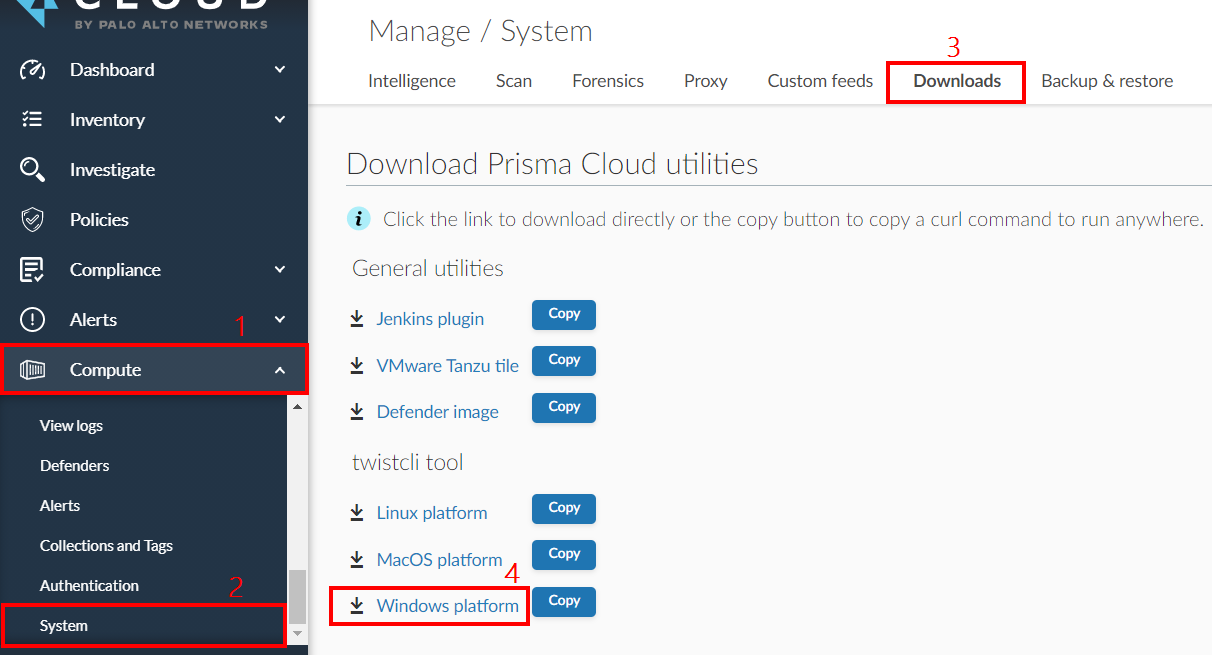
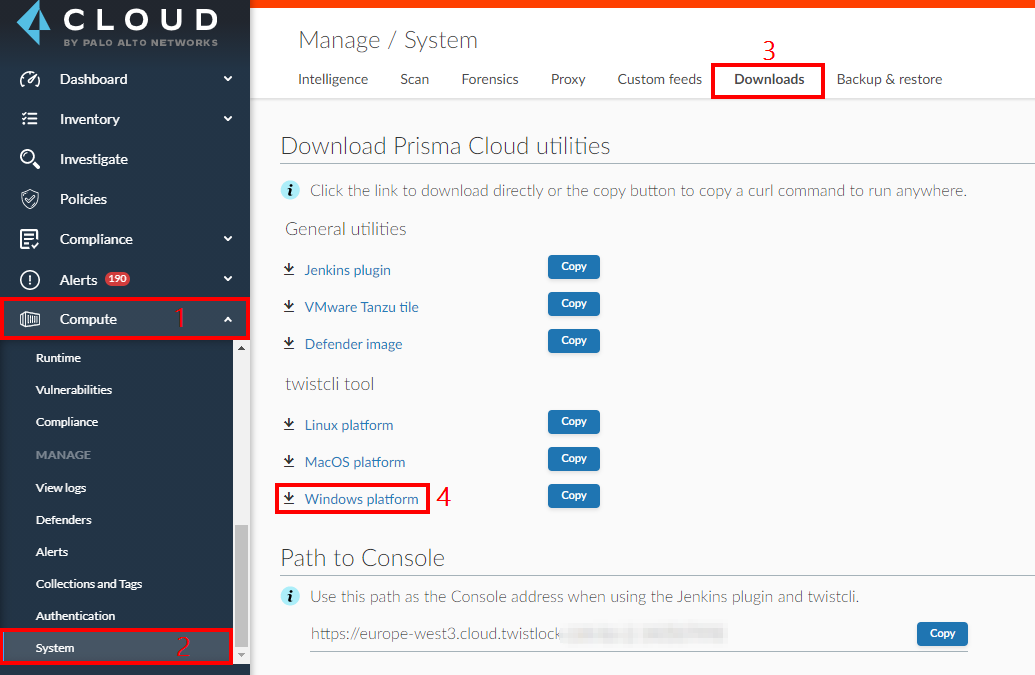
Added windows container build file

diff --git a/workshops/azure-cloud-protection/modules/7-protect-windows-hosts-and-containers.md b/workshops/azure-cloud-protection/modules/7-protect-windows-hosts-and-containers.md
@@ -1,12 +1,13 @@
 ---
-Title: 6 - Protect Windows Hosts and Containers in Azure
+Title: 7 - Protect Windows Hosts and Containers in Azure
 Description: Prisma Cloud Compute provides a comprehensive set of cecurity capabilities to protect containerized workloads everywhere including Windows hosts and containers
 Author: David Okeyode
 ---
-# Module 6: Protect Windows Hosts and Containers in Azure
+# Module 7: Protect Windows Hosts and Containers in Azure
 
 In the previous lessons, you implemented some of the Cloud Security Posture Management capabilities of Prisma Cloud. From this lesson, we will begin to implement workload protection capabilities particularly in relation to containerized workloads in Azure. Here are the tasks that we will be completing in this module:
 
+> * Switch Docker to Windows Containers
 > * Download and install twistCLI
 > * Scan the vulnerability and compliance of container images using twistCLI
 > * Implement custom compliance scan for container images 
@@ -14,14 +15,7 @@ In the previous lessons, you implemented some of the Cloud Security Posture Mana
 > * Implement container runtime defense 
 > * Implement host runtime defense 
 
-## Exercise 1 - Obtain the twistCLI Download URL
-
-1. Log into the Prisma Cloud Console and obtain the twistCLI download URL from the following location: **`Compute`** → **`Manage`** → **`System`** → **`Downloads`** → Click to download the twistcli tool (Windows platform)
-
-![twistcli-download](../images/7-twistcli-download.png)
-
-## Exercise 2 - Scan Windows Container Images Using twistCLI
-
+## Exercise 1 - Switch Docker to Windows Containers
 1. Obtain the **`windows VM Hostname`** from the output of the template deployment in **`Module 1`** and connect to it using RDP
 
 2. When prompted, authenticate with the username value obtained from the output of the template - **`windows VM Username`**. Enter the password that you used for the template deployment and press **`Enter`**.
@@ -32,220 +26,72 @@ In the previous lessons, you implemented some of the Cloud Security Posture Mana
 
 ![switch-docker](../images/7-switch-docker.png)
 
-5. In the RDP session to the Windows VM, open PowerShell as an administrator, download sample container images using the commands below:
-```
-docker pull mcr.microsoft.com/dotnet/samples:aspnetapp
-
-./twistcli images scan mcr.microsoft.com/dotnet/samples:aspnetapp --address $TWISTLOCK_CONSOLE -u $TWISTLOCK_USER -p $TWISTLOCK_PASSWORD
-
-docker image ls
-```
-
-6. Copy the twistCLI tool that you downloaded in Exercise 1 into the Windows VM
-
-## Exercise 3 - Create Scanning Credentials
-To begin scanning, we need two main pieces of information. First the console address of our Prisma Cloud console and second, API credentials that can be used for authenticating the scan request. We'll obtain both of these information in this exercise.
-
-1. Obtain the Prisma Cloud console address by going to the following location: 
-* **`Compute`** → **`Manage`** → **`System`** → **`Downloads`** → Copy the **`Path to console`**
-
-![prisma-console](../images/6-prisma-console.png)
-
-2. (Prisma Cloud SaaS) Generate credentials for scanning by doing the following:
-* **`Prisma Cloud`** → **`Settings`** → **`Access Keys`** → **`Add New`** 
-	* **`Name`**: DevSecOps-Scan
-	* **`Key Expiry`**: Select 30 days from current date
-	* Click on **`Create`**
-	* Make a note of both the **Access Key ID** and the **Secret Key**
-
-## Exercise 4 - Configure Prisma Cloud Host and Container Vulnerability Scanning Rules
-1. Configure a container image vulnerability assessment rule by going to the following location: 
-* **`Compute`** → **`Defend`** → **`Vulnerabilities`** → **`Images`** → **`CI`** → **`Add Rule`**
-	* **Rule Name**: Org Baseline Container Vulnerability Rule
-	* **Alert Threshold**: Low
-	* **Failure Threshold**: Medium
-	* **Expand Advanced Settings**
-		* **Apply rule only when vendor fixes are available**: On
-	* Leave other settings at default value
-	* Click on **`Save`**
-
-2. Configure a host vulnerability assessment rule by going to the following location: 
-* **`Compute`** → **`Defend`** → **`Vulnerabilities`** → **`Hosts`** → **`Running Hosts`** → **`Add Rule`**
-	* **Rule Name**: Org Baseline Host Vulnerability Rule
-	* **Alert Threshold**: Low
-	* **Expand Advanced Settings**
-		* **Apply rule only when vendor fixes are available**: On
-	* Leave other settings at default value
-	* Click on **`Save`**
-
-## Exercise 5 - Configure Prisma Cloud Host and Container Compliance Rules
-1. Configure a container image compliance assessment rule by going to the following location: 
-* **`Compute`** → **`Defend`** → **`Compliance`** → **`Containers and Images`** → **`CI`** → **`Add Rule`**
-	* **Rule Name**: Org Baseline Container Compliance Rule
-	* **Compliance Template**: NIST SP 800-190
-	* **Set the following policies to fail**
-		* Sensitive information provided in environment variables
-		* Private keys stored in image
-	* Leave other settings at default value
-	* Click on **`Save`**
-
-2. Configure a host compliance assessment rule by going to the following location: 
-* **`Compute`** → **`Defend`** → **`Compliance`** → **`Hosts`** → **`Running Hosts`** → **`Add Rule`**
-	* **Rule Name**: Org Baseline Host Compliance Rule
-	* **Compliance Template**: GDPR
-	* Leave other settings at default value
-	* Click on **`Save`**
-
-## Exercise 6 - Scan Images Using twistCLI
-1. Go back to the SSH session of the Linux VM and configure the following environment variables. Replace the placeholder values with the values that you made note of in Exercise 3.
+5. Set environment variables for scanning. Replace the placeholder values with the values that you made note of Module 6. Place the values in quotes.
 ```
 $TWISTLOCK_CONSOLE="<PRISMA_CLOUD_CONSOLE_URL>"
 $TWISTLOCK_USER="<PRISMA_CLOUD_ACCESS_KEY_ID>"
 $TWISTLOCK_PASSWORD="<PRISMA_CLOUD_SECRET_KEY>"
 ```
 
-2. Review twistCLI commands using the commands below:
-```
-./twistcli -h
-./twistcli images -h
-```
+## Exercise 2 - Download and install twistCLI
 
-3. Perform both vulnerability and compliance assessments of the two container images using twistCLI
-```
-./twistcli images scan node:13.5-alpine --address $TWISTLOCK_CONSOLE -u $TWISTLOCK_USER -p $TWISTLOCK_PASSWORD
-```
+1. Log into the Prisma Cloud Console and obtain the twistCLI download URL from the following location: **`Compute`** → **`Manage`** → **`System`** → **`Downloads`** → Click to download the twistcli tool (Windows platform). Copy the downloaded tool into the Windows VM.
 
-![twistcli-scan-results](../images/6-twistcli-scan-results-3.png)
+![twistcli-download](../images/7-twistcli-download.png)
 
+2. Open PowerShell as an administrator, download sample container images using the commands below:
 ```
-./twistcli images scan node:current-alpine --address $TWISTLOCK_CONSOLE -u $TWISTLOCK_USER -p $TWISTLOCK_PASSWORD
+docker pull mcr.microsoft.com/dotnet/samples:aspnetapp
+docker image ls
 ```
 
-![twistcli-scan-results](../images/6-twistcli-scan-results-4.png)
-
-* From the above result, we can see that using **`node:current-alpine`** as a base image is a better choice than using **`node:13.5-alpine`**
-
-4. Get details of container scans (vulnerability and compliance)
+3. Perform both vulnerability and compliance assessments of the container image using twistCLI
 ```
-./twistcli images scan node:13.5-alpine --address $TWISTLOCK_CONSOLE -u $TWISTLOCK_USER -p $TWISTLOCK_PASSWORD --details 
+./twistcli images scan mcr.microsoft.com/dotnet/samples:aspnetapp --address $TWISTLOCK_CONSOLE -u $TWISTLOCK_USER -p $TWISTLOCK_PASSWORD --details
 ```
+![twistcli-scan](../images/7-twistcli-scan.png)
 
-```
-./twistcli images scan node:current-alpine --address $TWISTLOCK_CONSOLE -u $TWISTLOCK_USER -p $TWISTLOCK_PASSWORD --details 
-```
+4. 
 
-* The criteria for passing or failing a scan can be refined with any of the following parameters: **`--compliance-threshold`**, **`--vulnerability-threshold`**, and **`--only-fixed`**.
+## Exercise 3 - Deploying Prisma Cloud Defender on Windows
 
-5. View results in the Prisma Cloud console. This is useful to track adoption of shift-left scans by developers.
-* **`Compute`** → **`Monitor`** → **`Vulnerabilities`** → **`Images`** → **`CI`**
-
-6. Specify if twistCLI scans will be saved in the console.
-* **`Compute`** → **`System`** → **`Scan`** → **`CI scan results`**
-
-7. Define collections and tags that can be used for filtering and policy assignment.
-* **`Compute`** → **`Manage`** → **`Collections and Tags`**
-
-8. Customize threat feeds and information
-* **`Compute`** → **`Manage`** → **`System`** → **`Custom feeds`** → **`Custom vulnerabilities`**
-* **`Compute`** → **`Manage`** → **`System`** → **`Custom feeds`** → **`Malware signatures`**
-
-## Exercise 7 - Implement custom compliance scan 
-1. In the Prisma Cloud console, go to **`Defend`** → **`Compliance`** → **`Custom`** → **`Add check`**
-* **`Name`**: Sensitive File Check
-* **`Description`**: Checks for sensitive file on container image
-* **`Severity`**: high
-* Check
-```
-if [ -f /tmp/sensitive.txt ]; then
-    echo "File not found!"
-    exit 1
-```
-* Click on **`Save`**
-
-2. In the Prisma Cloud console, go to **`Defend`** → **`Compliance`** → **`Containers and images`** → **`CI`** → Click the **`Org Baseline Container Compliance Rule`**
-* Set the new custom compliance to fail if violated
-* Click on **`Save`**
-
-![pcc-compliance](../images/6-twistlock-compliance.png)
-
-3. Build a non-compliant image
-```
-mkdir nodeapp
-echo "super sensitive" > nodeapp/sensitive.txt
-
-wget -P nodeapp/ https://raw.githubusercontent.com/davidokeyode/prismacloud-workshops-labs/main/workshops/azure-cloud-protection/template/nodeapp/Dockerfile
-
-docker build -t nodeapp:v1 nodeapp/.
-```
-
-4. Scan a non-compliant image with Prisma Cloud
-```
-./twistcli images scan nodeapp:v1 --address $TWISTLOCK_CONSOLE -u $TWISTLOCK_USER -p $TWISTLOCK_PASSWORD
-
-./twistcli images scan nodeapp:v1 --address $TWISTLOCK_CONSOLE -u $TWISTLOCK_USER -p $TWISTLOCK_PASSWORD --details
-```
-
-* The scan should identify two compliance issues for the image.
-
-![pcc-compliance-2](../images/6-twistlock-compliance-b.png)
-
-5. Fix the compliance issues and scan again
-* Edit the dockerfile using the command below:
-
-```
-vim nodeapp/Dockerfile
-```
-
-* Remove the following lines and save:
-
-```
-COPY    sensitive.txt /tmp/sensitive.txt
-ENV     CLIENT_ID="9aadafc1-bd59-4575-847a-21f0f0a517ea"
-ENV     SECRET_KEY="~DUUvI~gbnZ_~~zrj3J4i83q69vuJGczn0"
-```
-
-* Build a new version of the image using the following command:
-
-```
-docker build -t nodeapp:v2 nodeapp/.
-```
-
-* Scan the new version of the image:
-
-```
-./twistcli images scan nodeapp:v2 --address $TWISTLOCK_CONSOLE -u $TWISTLOCK_USER -p $TWISTLOCK_PASSWORD
-
-./twistcli images scan nodeapp:v2 --address $TWISTLOCK_CONSOLE -u $TWISTLOCK_USER -p $TWISTLOCK_PASSWORD --details
-```
-
-## Exercise 8 - Install Prisma Cloud Defender 
 1. In the Prisma Cloud console, go to **`Compute`** → **`Manage`** → **`Defenders`** → **`Deploy`** → **`Defenders`** 
 * **`Deployment method`**: Single Defender
 * **`Choose the Defender type`**: Container Defender - Windows
 * Leave other settings at default values
 * Copy the install command in **`Step 7`**
 
-![install-defender](../images/7-install-defender.png)
+![install-defender](../images/7-copy-defender-script.png)
 
+2. Go to the PowerShell session in the Windows VM, paste the command that you copied in the previous step and press enter to install the Prisma Cloud defender. The output will be similar to the screenshot below.
 
-
-2. Go to the SSH session of the Linux VM, paste the command that you copied in the previous step to install the Prisma Cloud defender. The command will have the following format.
-
-```
-curl -sSL -k --header "authorization: Bearer <TOKEN>" -X POST https://<CONSOLE_URL>/api/v1/scripts/defender.sh  | sudo bash -s -- -c "<CONSOLE_ADDRESS>" -d "none"   
-```
+![pcc-defender](../images/7-pcc-defender-win.png)
 
 3. Verify the installation
-* On the Linux VM:
+* On the Windows VM:
 
 ```
-docker container ls
+Get-Service -Name twistlockDefender
 ```
 
 * In Prisma Cloud:
 	* **`Compute`** → **`Manage`** → **`Defenders`** → **`Manage`** → **`Defenders`** 
 
-![pcc-defender](../images/6-pcc-defender-b.png)
+![pcc-defender](../images/7-pcc-defenders.png)
+
+
+4. 
+
+3. Build a non-compliant image
+```
+mkdir laravelapp
+echo "super sensitive" > nodeapp/sensitive.txt
+
+wget -P laravelapp/ https://raw.githubusercontent.com/davidokeyode/prismacloud-workshops-labs/main/workshops/azure-cloud-protection/template/laravelapp/Dockerfile
+
+docker build -t laravelapp:v1 laravelapp/.
+```
+
 
 4. Review Container vulnerability and compliance information
 * **`Compute`** → **`Monitor`** → **`Vulnerabilities`** → **`Images`** → **`Deployed`** → **`Select image`** 
